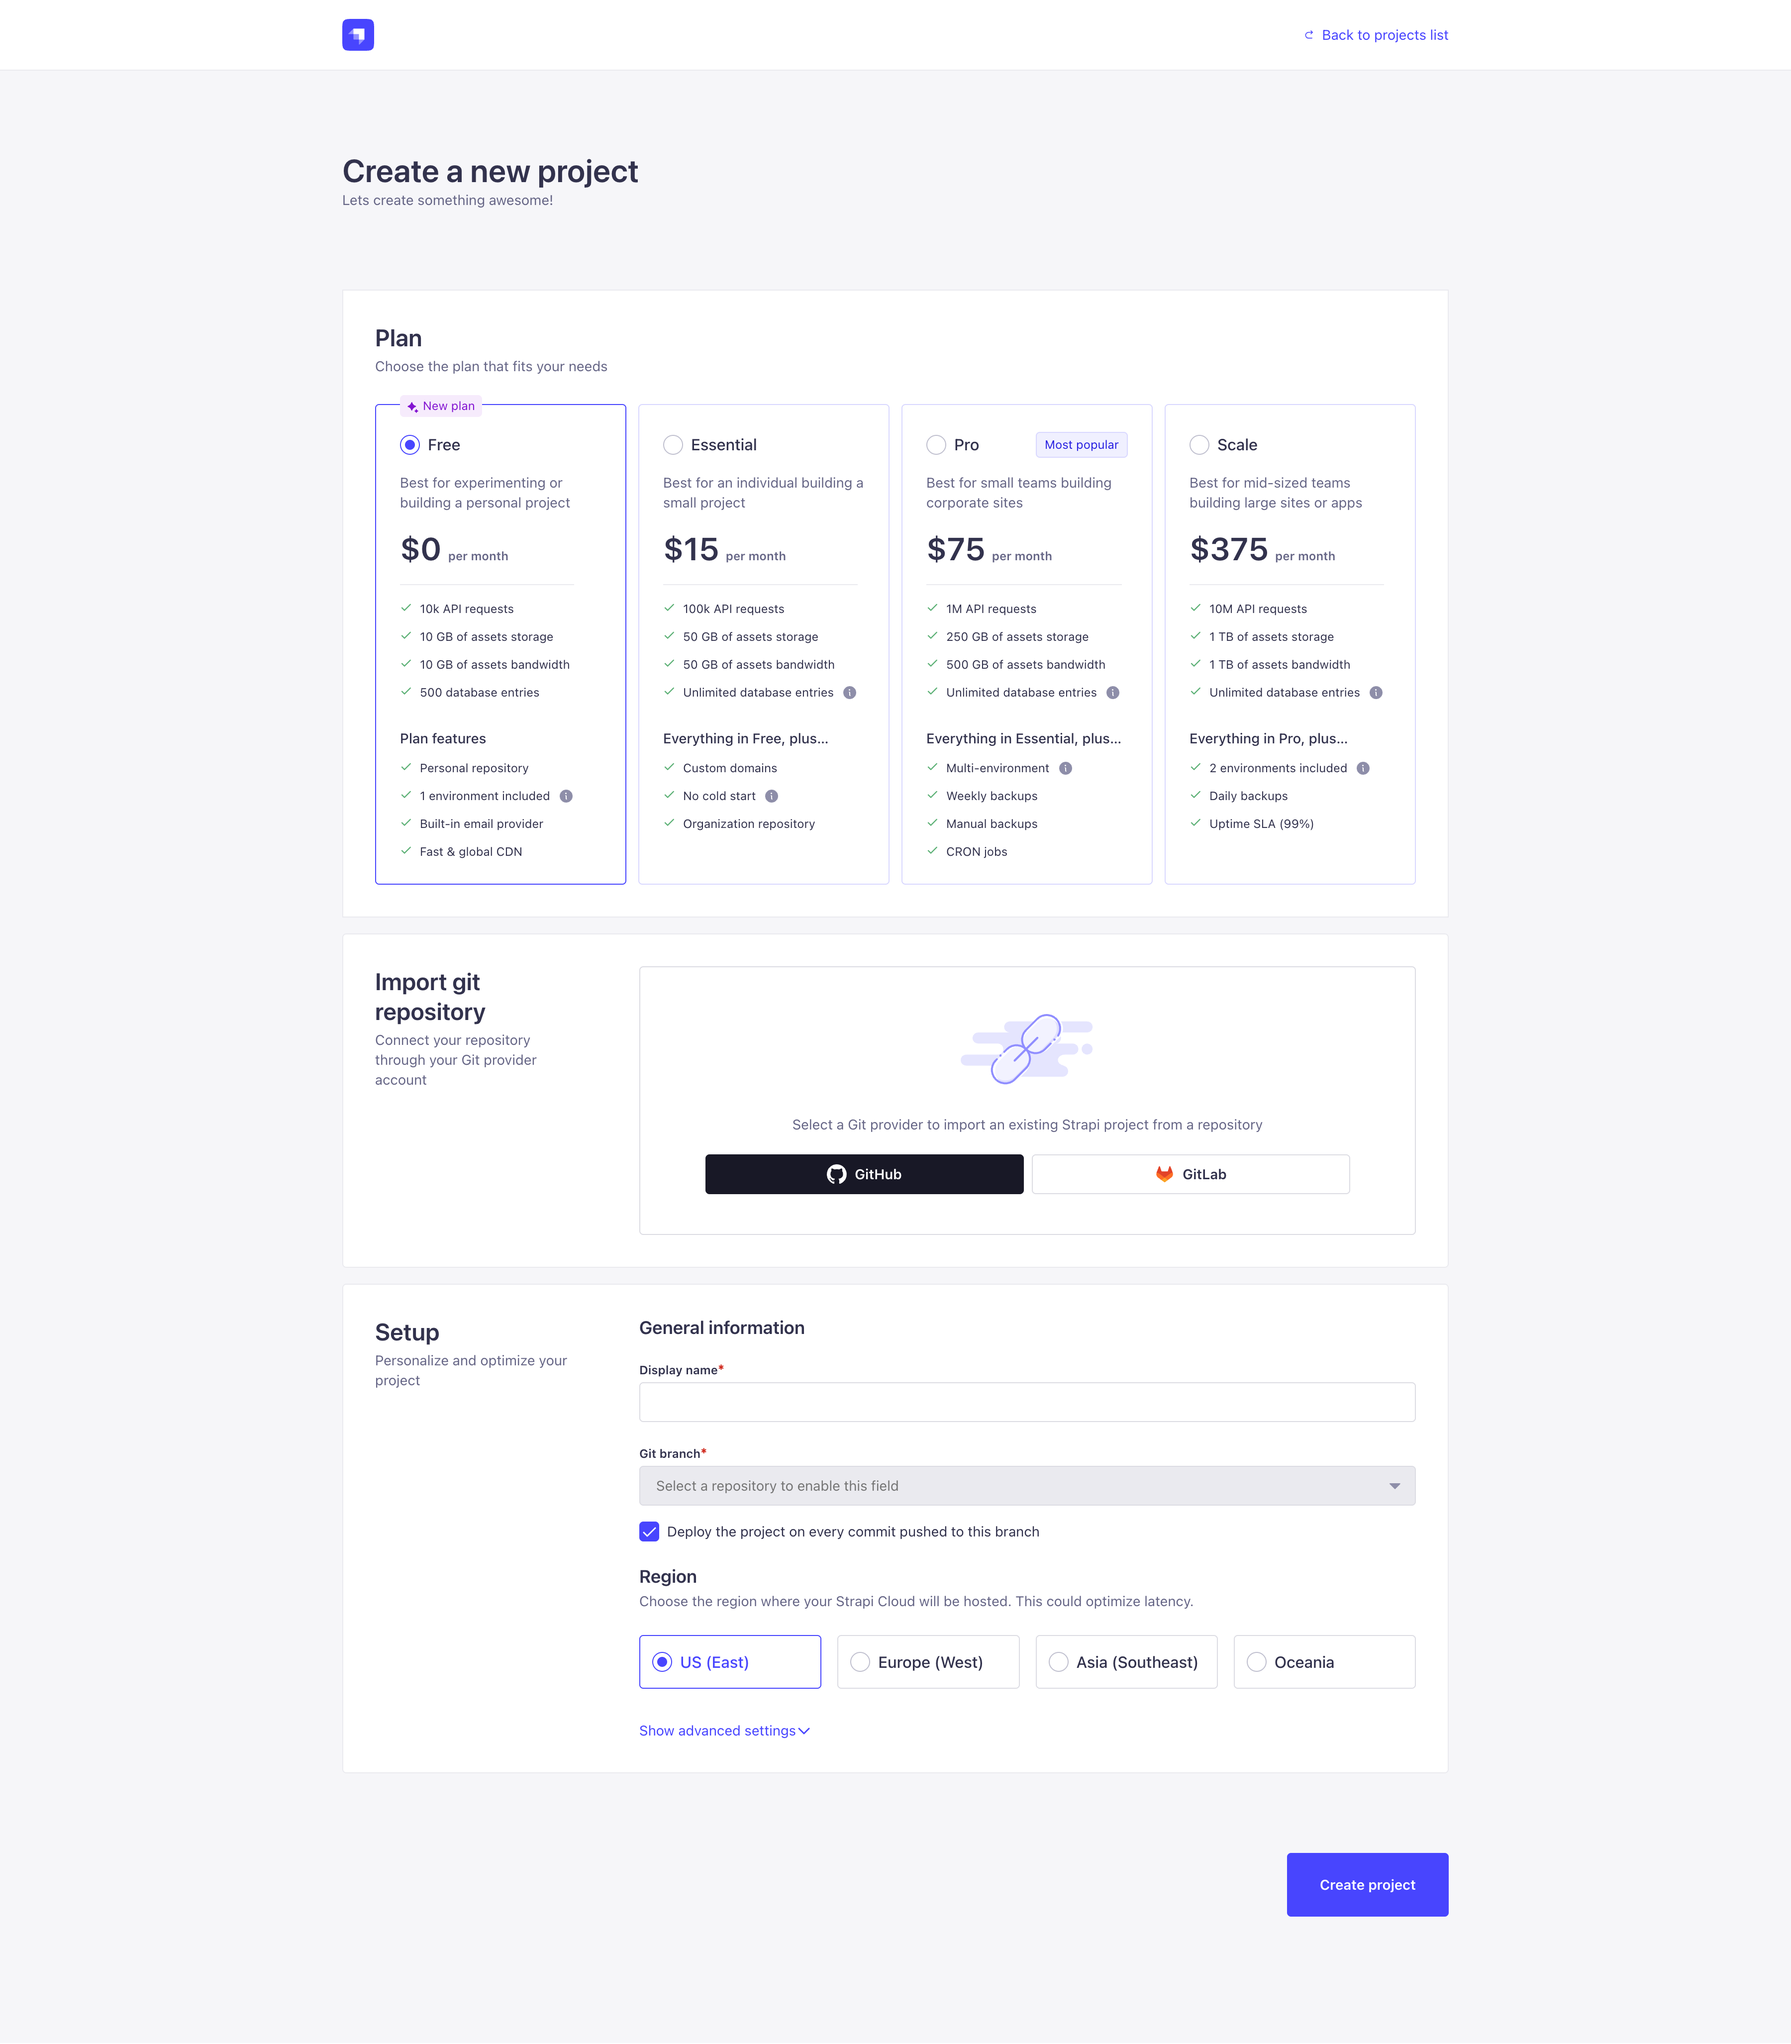
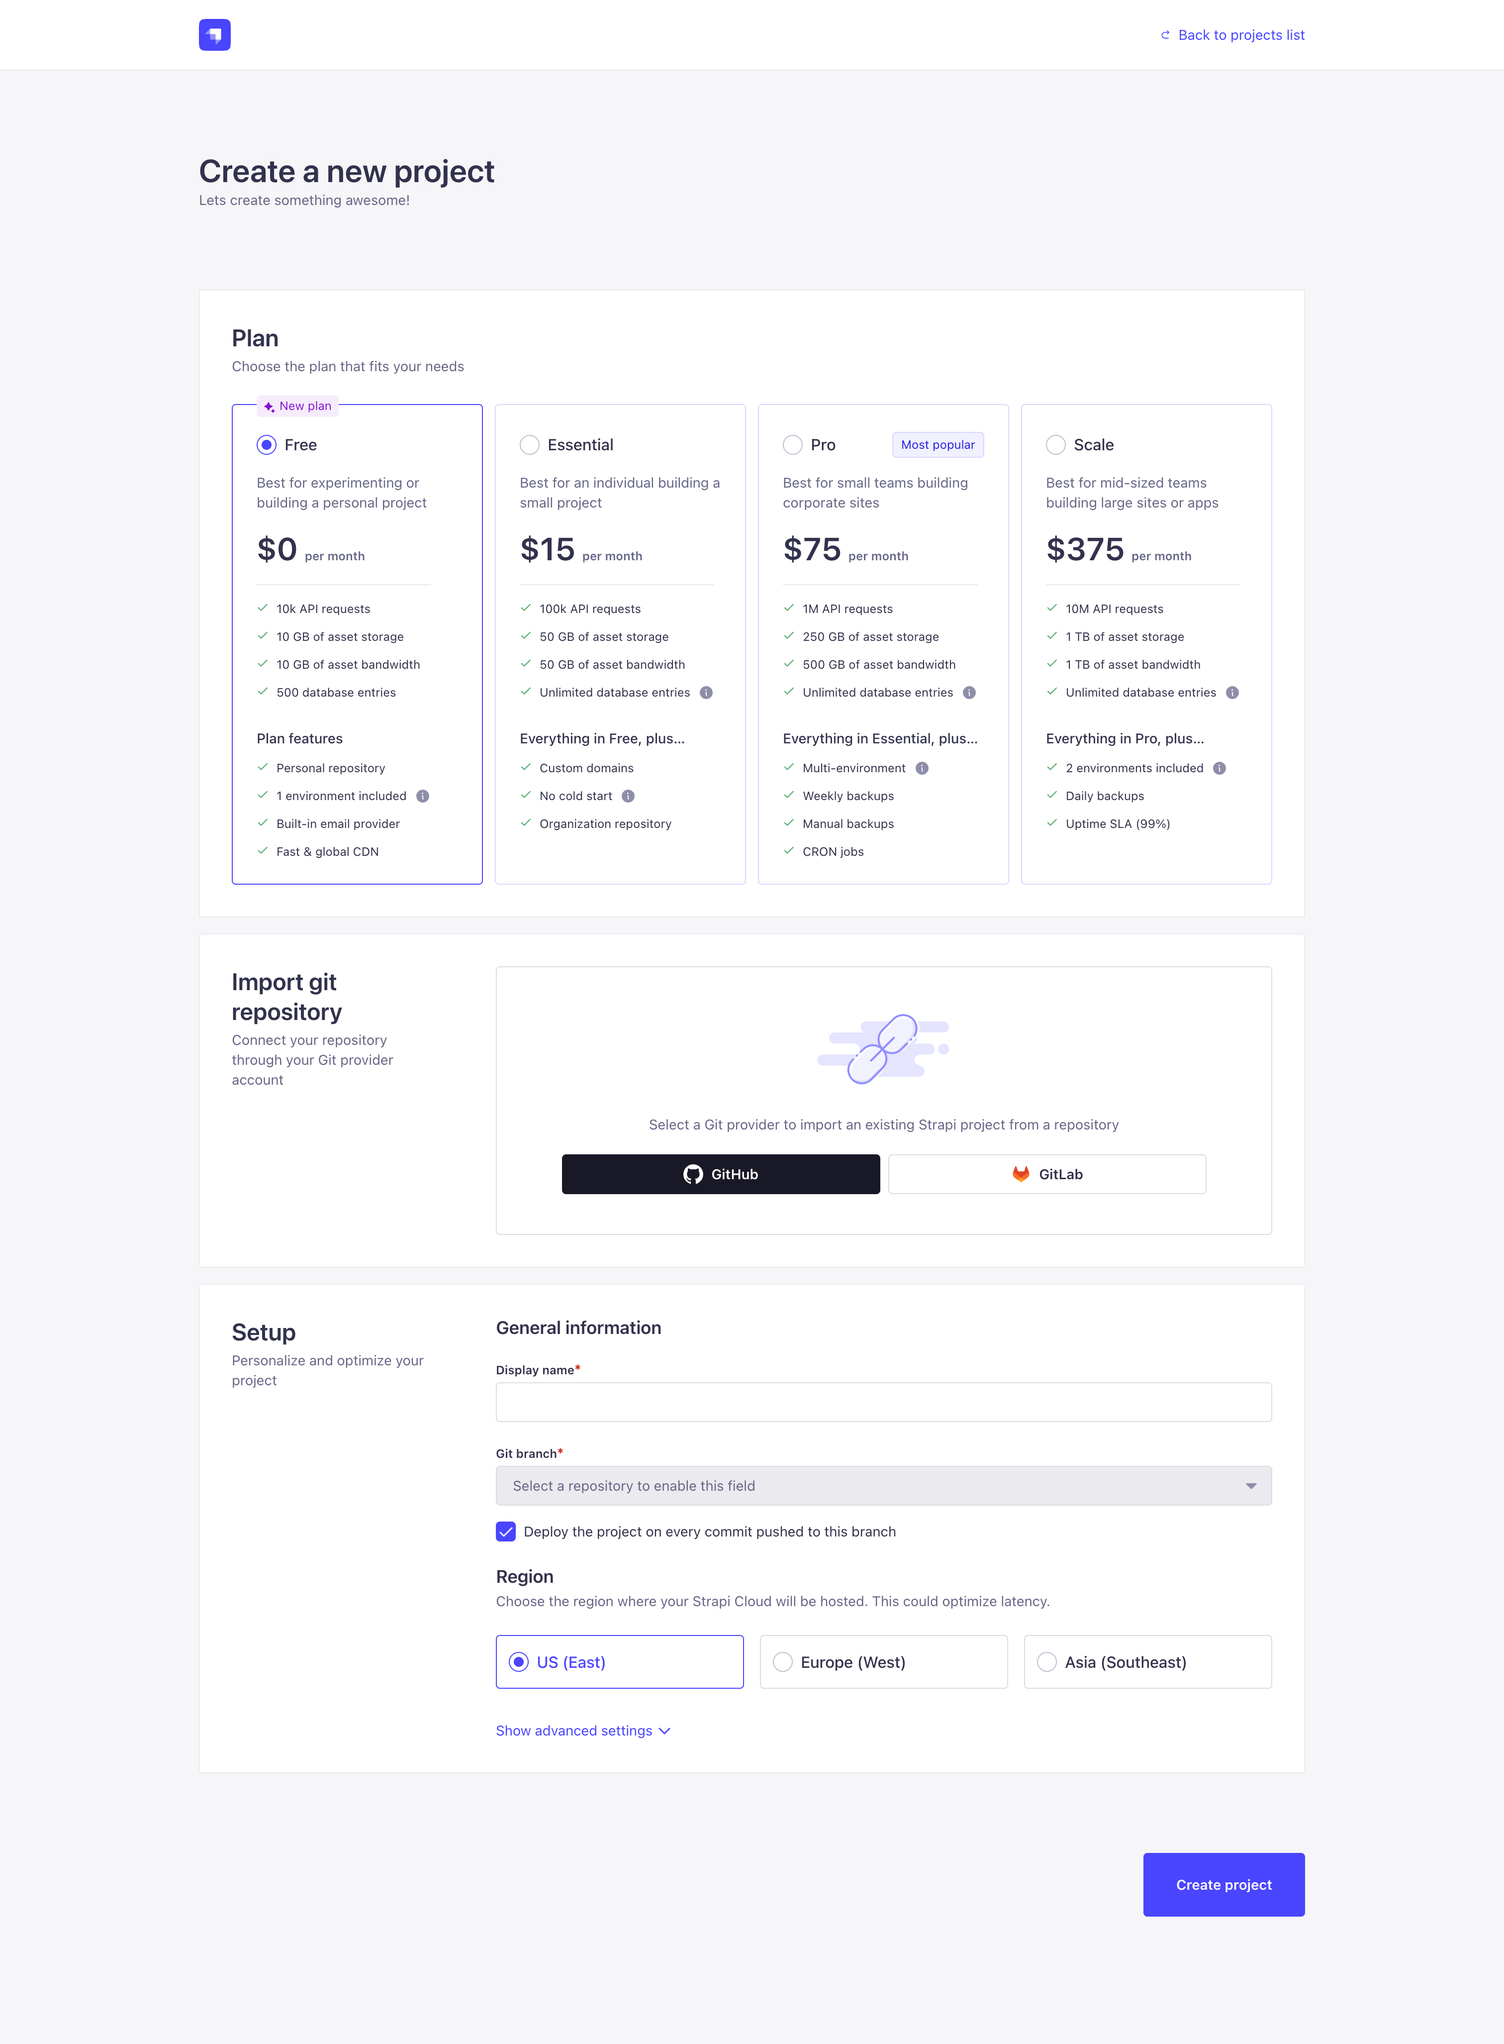
update region

diff --git a/docusaurus/docs/cloud/getting-started/deployment.md b/docusaurus/docs/cloud/getting-started/deployment.md
@@ -148,7 +148,7 @@ Before you can deploy your Strapi application on Strapi Cloud using the Cloud da
     | Display name | Write the name of your Strapi app, this is fetched from the repository name but can be edited. It is automatically converted to slug format (`my-strapi-app`). |
     | Git branch   | Choose from the drop-down the branch you want to deploy. |
     | Deploy on push | Tick this box to automatically trigger a deployment when changes are pushed to your selected branch. When disabled, you will need to manually deploy the latest changes. |
-    | Region       | Choose the geographic location of the servers where your Strapi application is hosted. Selected region can either be US (East), Europe (West), Asia (Southeast) or Oceania. |
+    | Region       | Choose the geographic location of the servers where your Strapi application is hosted. Selected region can either be US (East), Europe (West) or Asia (Southeast). |
 
     :::note
     The Git branch and "Deploy on push" settings can be modified afterwards through the project's settings, however the hosting region can only be chosen during the creation of the project (see [Project Settings](/cloud/projects/settings)).
